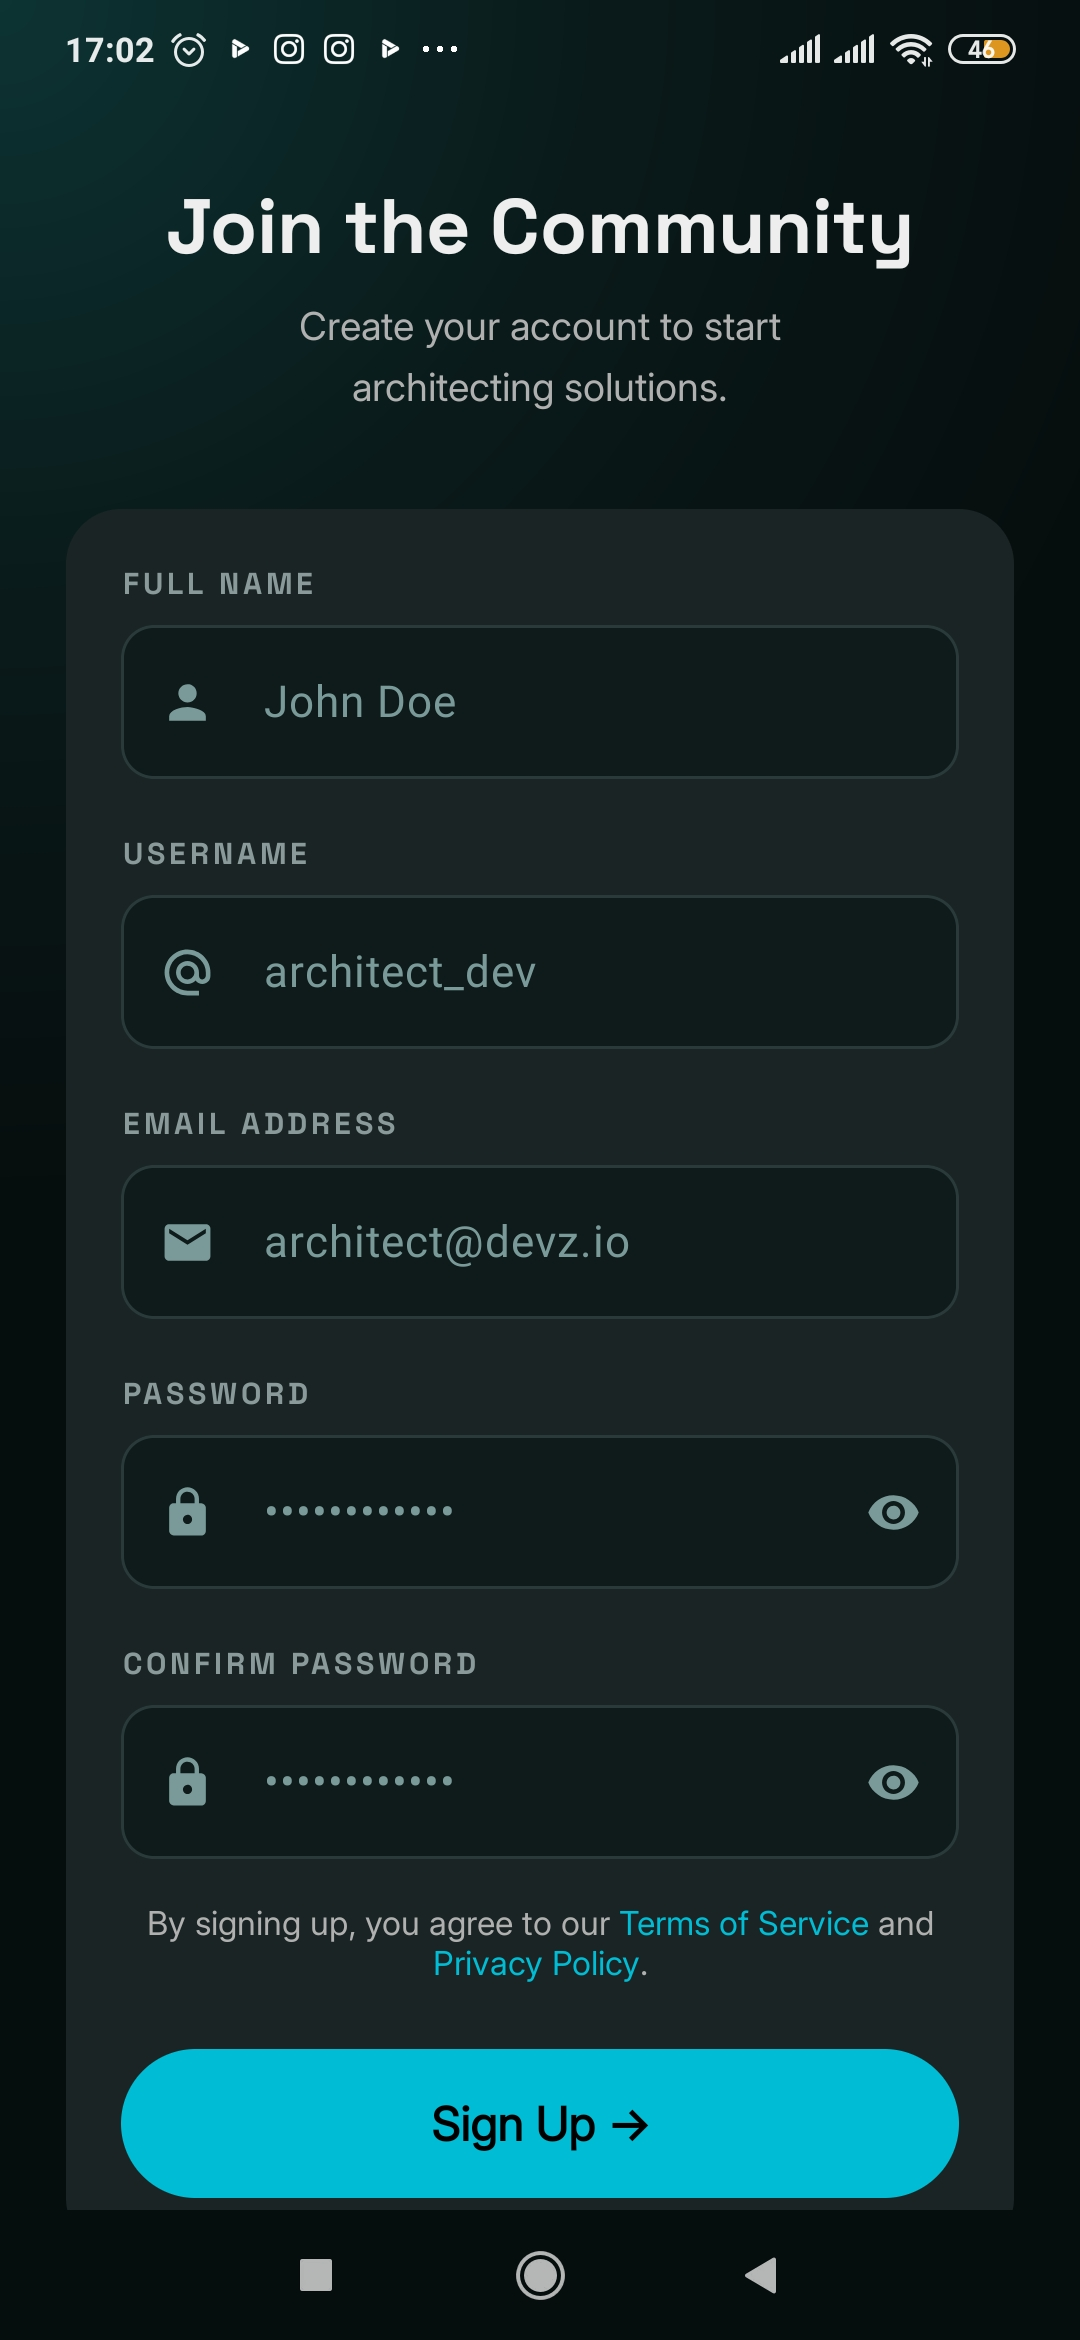
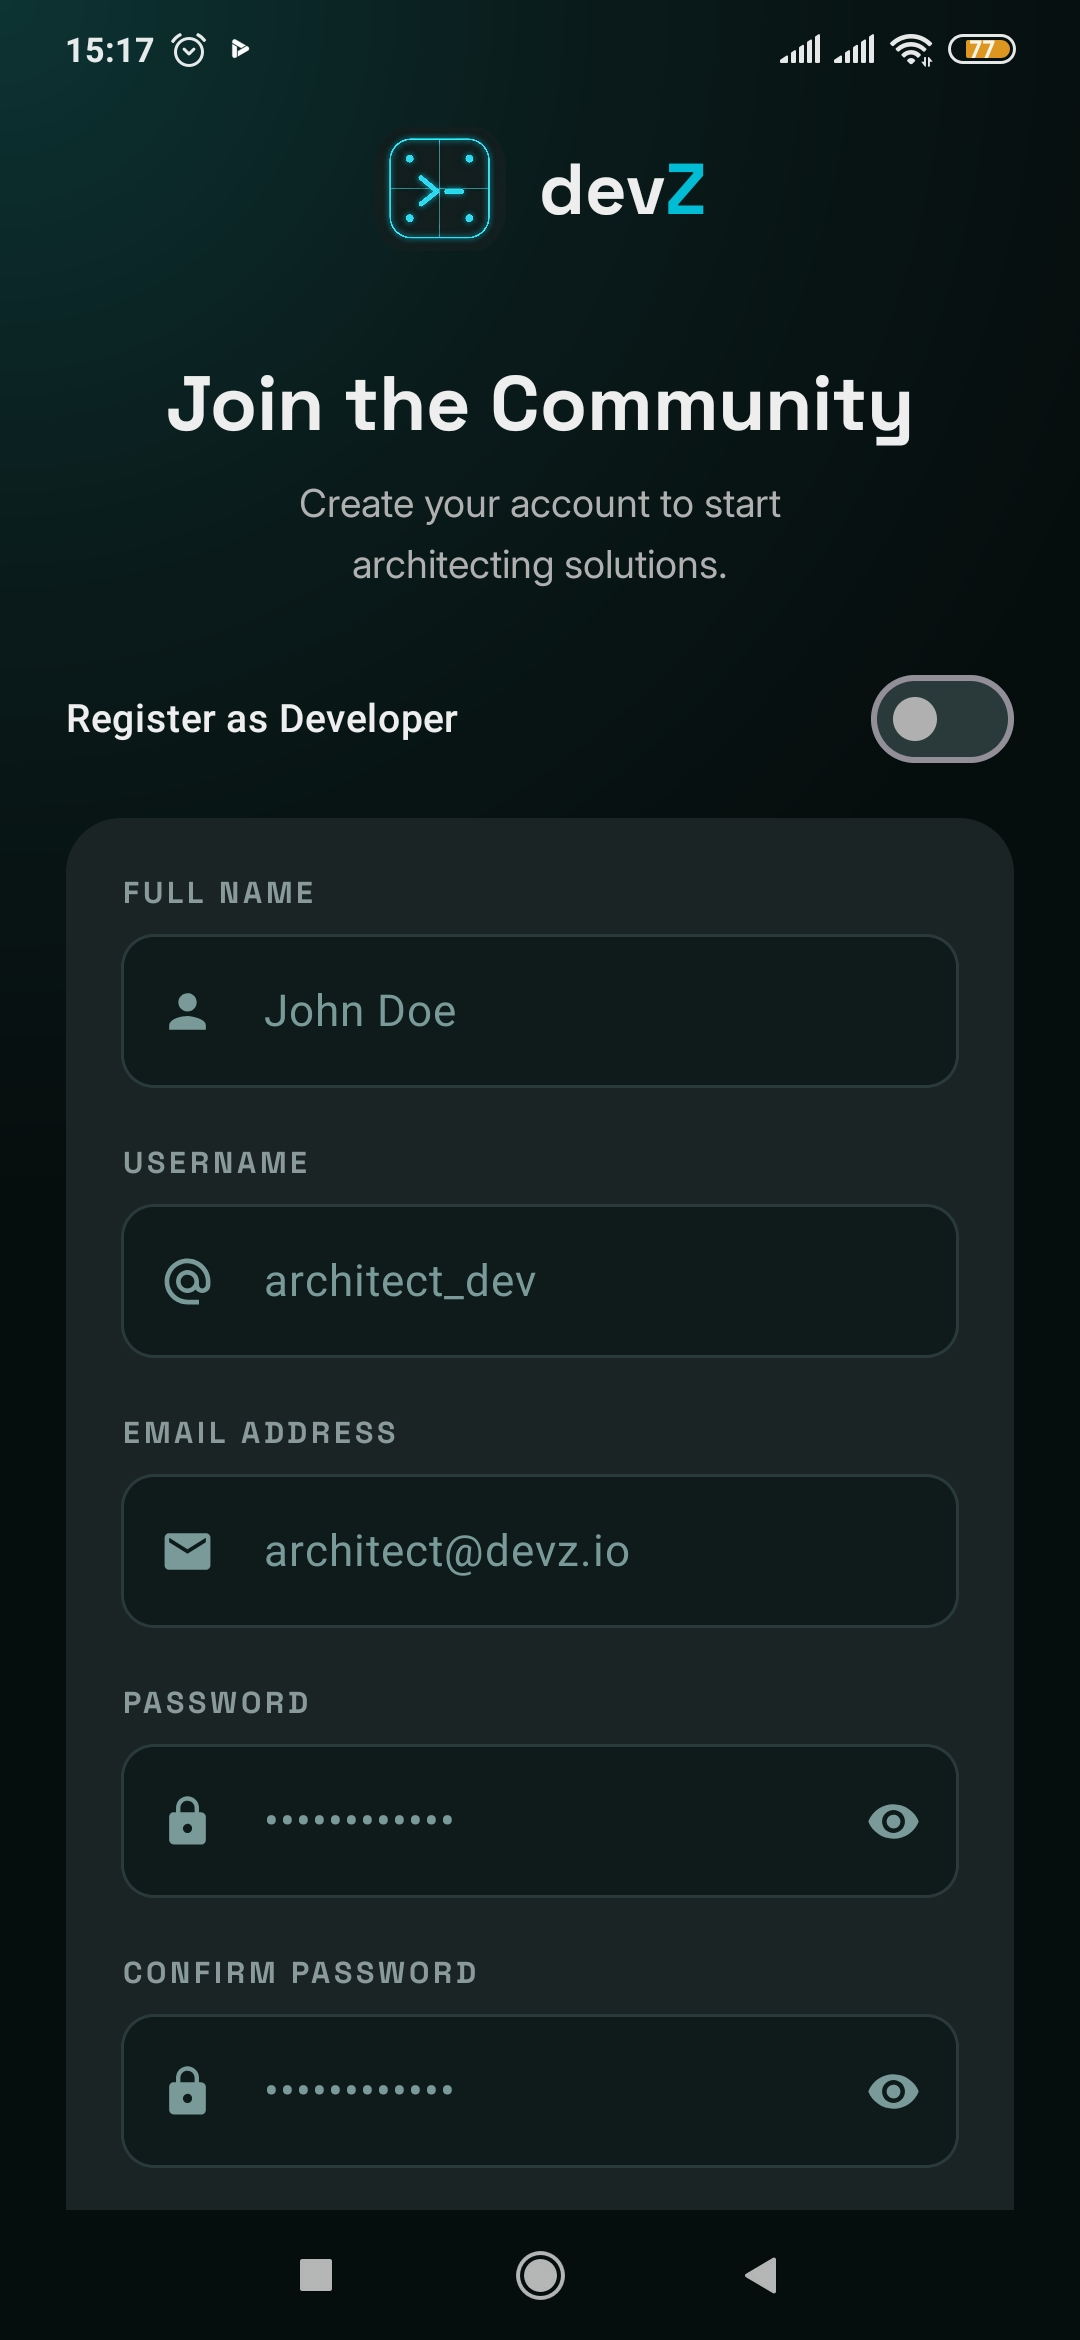
add screenshots for jobs, company, admin and feed variants; align README gallery filenames

diff --git a/README.md b/README.md
@@ -36,7 +36,7 @@
 ### Feed & Questions
 | Feed — For You | Feed — Following | Question Details | Add / Edit Question |
 |----------------|------------------|------------------|---------------------|
-| <img src="assets/screenshots/3.1_viewQuestion.jpeg" width="180"/> | <img src="assets/screenshots/3.5_feed_following.jpg" width="180"/> | <img src="assets/screenshots/3.2_QuestionDetails.jpg" width="180"/> | <img src="assets/screenshots/3.3_addEditQuestion.jpg" width="180"/> |
+| <img src="assets/screenshots/3.1_feed_ForYou.jpg" width="180"/> | <img src="assets/screenshots/3.5_feed_following.jpg" width="180"/> | <img src="assets/screenshots/3.2_QuestionDetails.jpg" width="180"/> | <img src="assets/screenshots/3.3_addEditQuestion.jpg" width="180"/> |
 
 | Code Block | Report Sheet |
 |------------|--------------|
